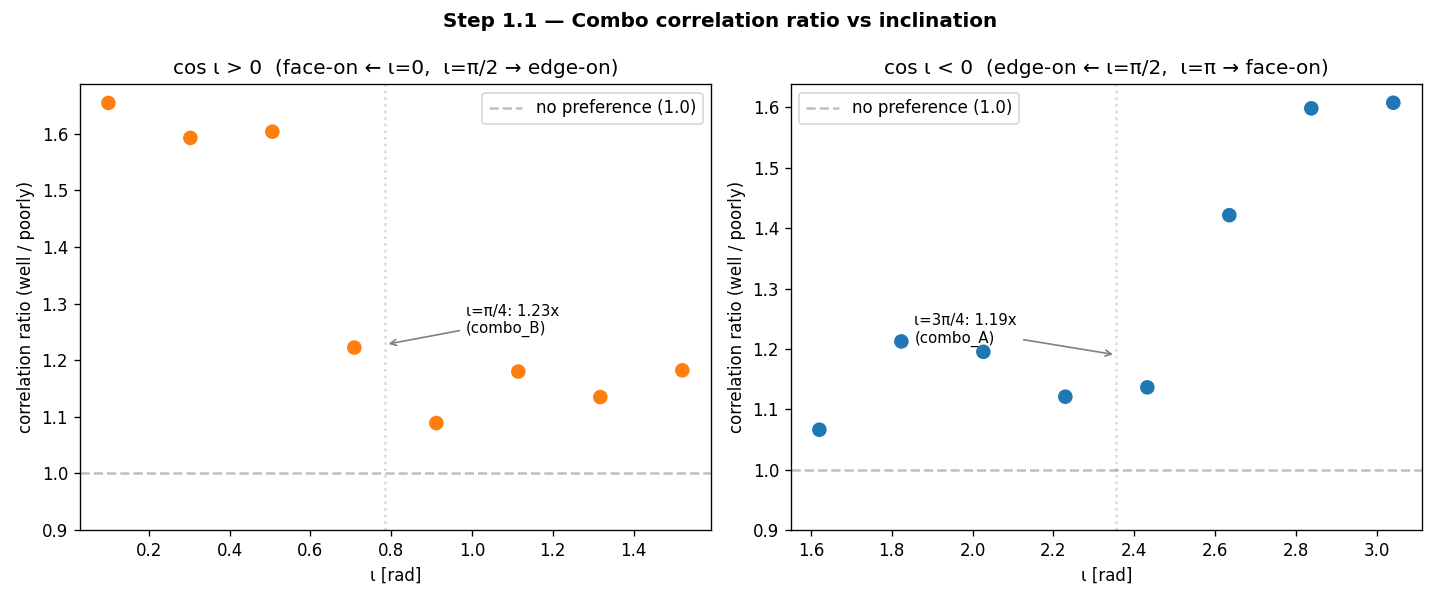
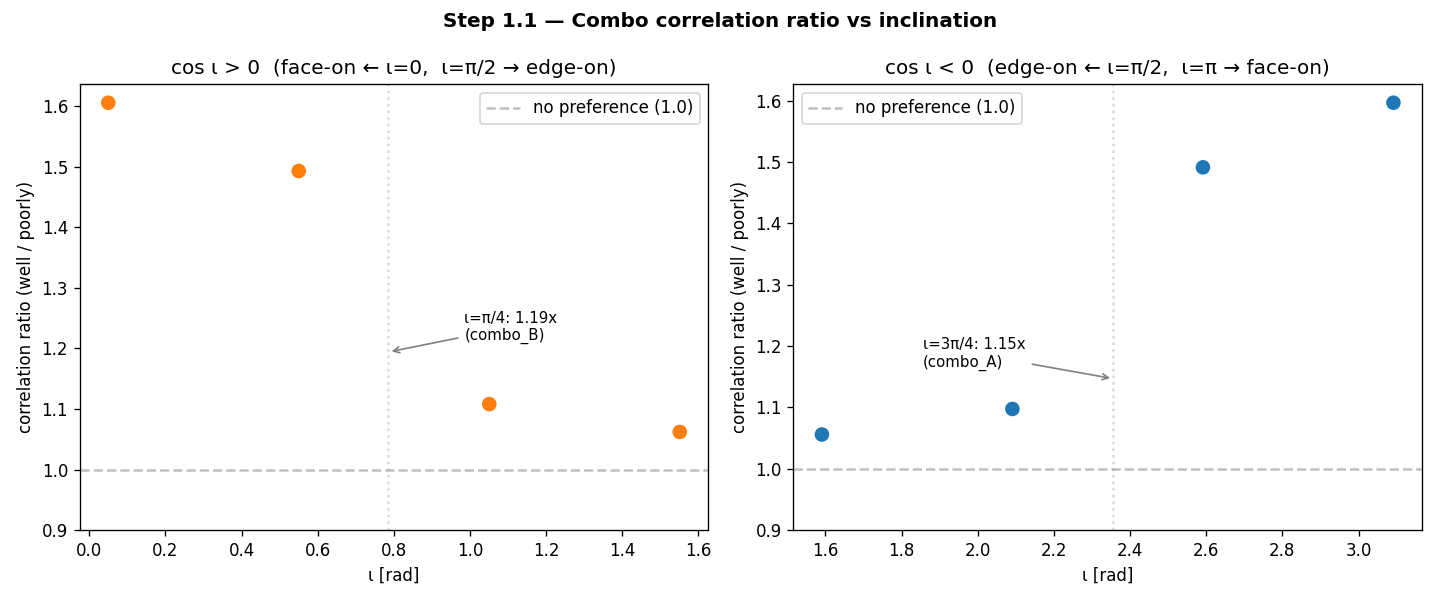
[poc-rev3] Make sweep/CI parameters CLI-configurable
All hardcoded grid-size constants are now exposed as --n-* flags so the
user can tune resolution without editing source code:

  --n-sky N         Sky positions for averaging (default: 200)
  --n-iota-sweep N  ι points per sign regime in Step 1.1 (default: 25)
  --n-iota-w N      ι points in Step 1.2 w(ι) grid (default: 200)
  --n-sweep N       Combo values per sky position (default: 50)
  --n-boot N        Bootstrap resamples for CI (default: 5000)

Default rationale documented in source: 200×25×50 ≈ 500k evaluations
per sign regime.  Pilot run at 8 points showed a clean trend; 25 gives
~3× the resolution.  Not derived from a convergence test — just a
reasonable balance of resolution vs. runtime.

diff --git a/experiments/phic_psi_poc/prereq_checks.py b/experiments/phic_psi_poc/prereq_checks.py
@@ -16,10 +16,15 @@ Usage::
 
 Flags::
 
-    --data-path PATH    Path to HDF5 file (default: combined_repackaged.hdf)
-    --skip-histogram    Skip the cos ι histogram (Step 1.6)
-    --skip-sign-check   Skip the sign/combination check (Step 1.1)
-    --skip-w-derivation Skip the w(ι) derivation (Step 1.2)
+    --data-path PATH      Path to HDF5 file (default: combined_repackaged.hdf)
+    --skip-histogram      Skip the cos ι histogram (Step 1.6)
+    --skip-sign-check     Skip the sign/combination check (Step 1.1)
+    --skip-w-derivation   Skip the w(ι) derivation (Step 1.2)
+    --n-sky N             Sky positions for averaging (default: 200)
+    --n-iota-sweep N      ι points per sign regime in Step 1.1 sweep (default: 25)
+    --n-iota-w N          ι points in Step 1.2 w(ι) grid (default: 200)
+    --n-sweep N           Combo values per sky position (default: 50)
+    --n-boot N            Bootstrap samples for CI (default: 5000)
 """
 
 from __future__ import annotations
@@ -42,7 +47,11 @@ sys.path.insert(0, str(Path(_REPO_ROOT) / "src"))
 
 
 def _check_sign_combination(
-    n_sky_samples: int = 200, seed: int = 42
+    n_sky_samples: int = 200,
+    n_iota_sweep: int = 25,
+    n_sweep: int = 50,
+    n_boot: int = 5000,
+    seed: int = 42,
 ) -> dict:
     """Using the toy antenna-response model (Appendix A.5):
 
@@ -54,8 +63,12 @@ def _check_sign_combination(
     5. At non-zero ι, compute which linear combination (φc+2ψ or φc−2ψ)
        correlates more strongly with R, δ.
 
-    Returns dict with keys: harness_passes, well_constrained_combo,
-    correlation_ratio, sign_flip.
+    Args:
+        n_sky_samples: Number of random (a,b) sky-position pairs.
+        n_iota_sweep: ι points PER SIGN REGIME in the sweep (50 total).
+        n_sweep: Combo values swept per sky position per ι.
+        n_boot: Bootstrap resamples for 95% CI.
+        seed: Random seed for reproducibility.
     """
     from experiments.phic_psi_poc.curriculum import (
         _random_sky_coefficients,
@@ -119,7 +132,7 @@ def _check_sign_combination(
     #      shrink as ι→π/2 per the underlying physics.
     #   3. Bootstrap the ratio at the two reference ι values to check
     #      whether 1.2× is statistically distinguishable from 1.0×.
-    n_sweep = 50  # deeper grid: 50 combo values per sky position
+    # n_sweep is now a parameter (was hardcoded to 50)
 
     def _correlations_at_iota(iota_val, rng_local):
         """Compute mean combo_A and combo_B correlations at a single ι."""
@@ -164,10 +177,10 @@ def _check_sign_combination(
     # Physics prediction: the gap between well- and poorly-constrained combos
     # should WIDEN as ι→0 (more degenerate) and CLOSE as ι→π/2 (less degenerate).
     # A ratio that stays flat at ~1.2× across all ι would be suspicious.
-    # Deep grid sweep: 25 points per sign regime (50 total) from near-face-on
+    # Deep grid sweep: n_iota_sweep points per sign regime from near-face-on
     # to near-edge-on.  Avoid the exact poles where finite differences break.
-    sweep_iotas_pos = np.linspace(0.05, np.pi / 2 - 0.02, 25)       # cos ι > 0
-    sweep_iotas_neg = np.linspace(np.pi / 2 + 0.02, np.pi - 0.05, 25)  # cos ι < 0
+    sweep_iotas_pos = np.linspace(0.05, np.pi / 2 - 0.02, n_iota_sweep)       # cos ι > 0
+    sweep_iotas_neg = np.linspace(np.pi / 2 + 0.02, np.pi - 0.05, n_iota_sweep)  # cos ι < 0
 
     sweep_results = []
     for iota_s in sweep_iotas_pos:
@@ -201,7 +214,6 @@ def _check_sign_combination(
 
         # Bootstrap 95% CI on the ratio
         n_sky = len(raw_A)
-        n_boot = 5000
         boot_ratios = np.zeros(n_boot)
         for b in range(n_boot):
             idx = rng.integers(0, n_sky, size=n_sky)
@@ -391,6 +403,32 @@ def main():
         "--skip-w-derivation", action="store_true",
         help="Skip w(ι) derivation (Step 1.2)",
     )
+    # Default rationale: these values balance resolution against runtime.
+    # 200 sky positions × 25 ι points × 50 combo sweeps ≈ 500k evaluations
+    # per sign regime (~1M total for Step 1.1).  Pilot run at 8 points
+    # showed a clean trend; 25 gives ~3× the resolution.  200 bootstrap
+    # sky positions and 200 w(ι) grid points are 4× and 2× the original
+    # values respectively.  All are tunable — see --help.
+    parser.add_argument(
+        "--n-sky", type=int, default=200,
+        help="Sky positions for averaging (default: 200)",
+    )
+    parser.add_argument(
+        "--n-iota-sweep", type=int, default=25,
+        help="ι points per sign regime in Step 1.1 sweep (default: 25)",
+    )
+    parser.add_argument(
+        "--n-iota-w", type=int, default=200,
+        help="ι points in Step 1.2 w(ι) grid (default: 200)",
+    )
+    parser.add_argument(
+        "--n-sweep", type=int, default=50,
+        help="Combo values per sky position (default: 50)",
+    )
+    parser.add_argument(
+        "--n-boot", type=int, default=5000,
+        help="Bootstrap samples for CI (default: 5000)",
+    )
     args = parser.parse_args()
 
     print("=" * 70)
@@ -400,7 +438,12 @@ def main():
     # ---- Step 1.1: Sign / combination check ----
     if not args.skip_sign_check:
         print("\n── Step 1.1: Sign / combination check ──")
-        result_1_1 = _check_sign_combination()
+        result_1_1 = _check_sign_combination(
+            n_sky_samples=args.n_sky,
+            n_iota_sweep=args.n_iota_sweep,
+            n_sweep=args.n_sweep,
+            n_boot=args.n_boot,
+        )
         if not result_1_1["harness_passes"]:
             print("\n  *** ABORT: harness check failed. Fix the analytical model.")
             sys.exit(1)
@@ -412,12 +455,12 @@ def main():
         print("\n── Step 1.2: Curriculum weight derivation ──")
         from experiments.phic_psi_poc.curriculum import derive_w_iota
 
-        n_sky = 200
-        n_iota = 200
-        result_1_2 = derive_w_iota(n_sky_samples=n_sky, n_iota_points=n_iota)
+        result_1_2 = derive_w_iota(
+            n_sky_samples=args.n_sky, n_iota_points=args.n_iota_w
+        )
         # rev3: confirm sky-averaging and ι sampling density
-        print(f"  Sky-averaging: ✓ averaged over {n_sky} random sky-location (a,b) pairs")
-        print(f"  ι grid: {n_iota} points from ι≈0.001 to ι≈π/2")
+        print(f"  Sky-averaging: ✓ averaged over {args.n_sky} random sky-location (a,b) pairs")
+        print(f"  ι grid: {args.n_iota_w} points from ι≈0.001 to ι≈π/2")
         print(f"  {result_1_2['fit_info']}")
         # Endpoint values from the interpolated curve
         w_interp = result_1_2["w_interpolated"]